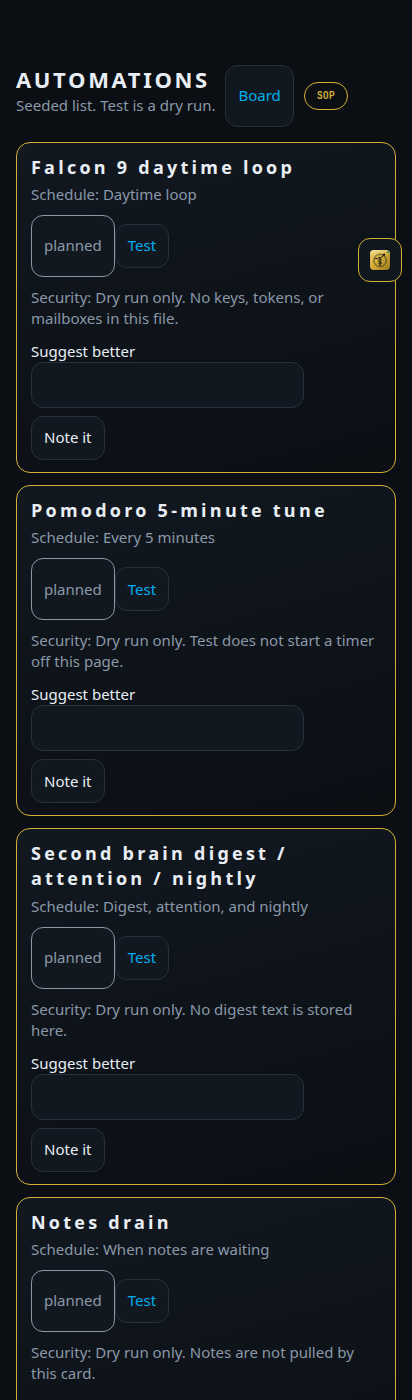
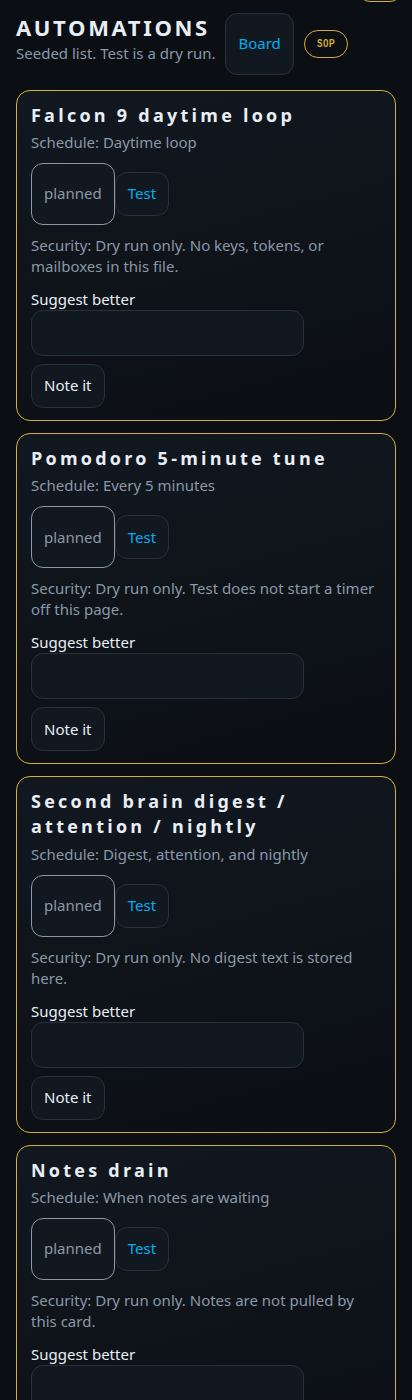
Use a public-domain Falcon 9 photo and a blue Ara mark.
The lane icon is the CC0 Iridium-1 launch, Ara's stroke is Realm blue, and Frankie and Henry has empty photo slots.

diff --git a/nirvana/index.html b/nirvana/index.html
@@ -33,6 +33,7 @@ button{font:inherit;color:inherit}
 .lane .go{display:flex;flex-direction:column;align-items:flex-start;gap:4px;width:100%;min-height:96px;box-sizing:border-box;padding:12px 28px 36px 12px;border:0;background:transparent;color:inherit;text-decoration:none;text-align:left;cursor:pointer;font:inherit}
 .lane.head .go{flex-direction:row;align-items:center;gap:10px;min-height:72px;padding-right:72px}
 .lane img{width:36px;height:36px;display:block;flex:none}
+img.photo{object-fit:cover;border-radius:8px;border:1px solid #26313d}
 .lane .nm{font-weight:700;font-size:14px;overflow-wrap:anywhere}
 .lane .role{color:#8a98a8;font-size:11.5px;line-height:1.3;overflow-wrap:anywhere}
 .lane .dot{position:absolute;top:10px;right:10px;width:8px;height:8px;border-radius:50%;background:#60ff15}
@@ -65,6 +66,10 @@ body.julie-on .tf{display:none}
 .sheet td img{width:22px;height:22px;vertical-align:middle;margin-right:6px}
 .block{background:linear-gradient(165deg,#121820,#0b0f14);border:1px solid #d4af37;border-radius:14px;padding:12px 14px;margin:0 0 10px}
 .block h2{margin:0 0 4px;font-size:16px}
+.dogs{display:flex;gap:8px;margin-top:8px}
+.dogslot{flex:1;min-height:92px;box-sizing:border-box;border:1px dashed #d4af37;border-radius:12px;display:flex;flex-direction:column;align-items:center;justify-content:center;gap:2px;color:#e8eef4;background:#0b0f14}
+.dogslot span{font-weight:700}
+.dogslot small{color:#8a98a8;font-size:11px}
 .draft{margin-top:6px;font:700 12px ui-monospace,Menlo,monospace;color:#d4af37}
 .goldh{background:linear-gradient(160deg,#f3d77a,#d4af37 48%,#9c7a1c);color:#0b0f14;border-radius:14px;padding:12px}
 .goldh h1,.goldh p{color:#0b0f14}
@@ -168,7 +173,9 @@ body.julie-on .tf{display:none}
 <tr><td><img src="../pwa/lanes/marvin.svg" width="22" height="22" alt="Marvin Musk" title="Marvin Musk" aria-label="Marvin Musk">Marvin Musk</td><td>Marvin Musk lane.</td><td>draft</td></tr>
 <tr><td></td><td>Infra — task under Marvin/Bastion.</td><td>draft</td></tr>
 <tr><td><img src="../pwa/lanes/terafab.svg" width="22" height="22" alt="">Terafab</td><td>Money: trades, F&amp;H store, Qantas, pay-it-forward.</td><td>draft</td></tr>
-<tr><td><img src="../pwa/lanes/falcon9.svg" width="22" height="22" alt="">Falcon 9</td><td>Falcon 9 lane.</td><td>draft</td></tr>
+<!-- Falcon 9 photo: https://commons.wikimedia.org/wiki/File:Iridium-1_Launch_(32312419215).jpg
+     Licence: CC0 1.0 Universal, public-domain dedication, Wikimedia Commons. -->
+<tr><td><img class="photo" src="../pwa/lanes/falcon9.jpg" width="22" height="22" alt="">Falcon 9</td><td>Falcon 9 lane.</td><td>draft</td></tr>
 <tr><td><img src="../pwa/lanes/neural-mesh.svg" width="22" height="22" alt="">Neuralink</td><td>After Dark gate.</td><td>draft</td></tr>
 </tbody>
 </table>
@@ -204,7 +211,7 @@ body.julie-on .tf{display:none}
 <div class="bar goldh"><img src="../pwa/lanes/terafab.svg" width="48" height="48" alt=""><div><h1>TERAFAB</h1><p>2026.10.20-LANES · SOP draft</p></div></div>
 <p><a class="back" href="#board">Board</a> <a class="sopc inline" href="#sop?lane=terafab-page">SOP</a></p>
 <section class="block"><h2>Trades</h2><p>The work this lane is tracking.</p><div class="draft">Status: draft</div></section>
-<section class="block"><h2>Frankie and Henry</h2><p>Store section, held as a draft.</p><div class="draft">Status: draft</div></section>
+<section class="block"><h2>Frankie and Henry</h2><p>Store section, held as a draft.</p><div class="dogs"><div class="dogslot"><span>Frankie</span><small>Cavoodle</small><small>Photo coming</small></div><div class="dogslot"><span>Henry</span><small>Photo coming</small></div></div><div class="draft">Status: draft</div></section>
 <section class="block"><h2>Qantas</h2><p>Travel lane, held as a draft.</p><div class="draft">Status: draft</div></section>
 <section class="block"><h2>Pay-it-forward</h2><p>The give-forward lane.</p><div class="draft">Status: draft</div></section>
 </div>
@@ -260,7 +267,7 @@ var s=localStorage.getItem(NVK);if(s)open(s,true);
     {id:"ara",name:"Ara 2.1",cls:"ara",icon:"../pwa/lanes/ara.svg",role:"Second brain for the four apps.",bot:"0aca7e2c-756b-4a08-a1c7-d0751a5703bb"},
     {id:"marvin",name:"Marvin Musk",icon:"../pwa/lanes/marvin.svg",role:"Marvin Musk lane."},
     {id:"terafab",name:"Terafab",cls:"tera",icon:"../pwa/lanes/terafab.svg",role:"Money: trades, F&H store, Qantas, pay-it-forward."},
-    {id:"falcon",sop:"falcon9",name:"Falcon 9",icon:"../pwa/lanes/falcon9.svg",role:"Falcon 9 lane."},
+    {id:"falcon",sop:"falcon9",name:"Falcon 9",icon:"../pwa/lanes/falcon9.jpg",role:"Falcon 9 lane."},
     {id:"neuralink",name:"Neuralink",icon:"../pwa/lanes/neural-mesh.svg",role:"After Dark gate.",href:"#after-dark"}
   ];
   var grid=document.getElementById("laneGrid");
@@ -270,7 +277,8 @@ var s=localStorage.getItem(NVK);if(s)open(s,true);
     if(lane.bot){araId=lane.bot;href="https://cursor.com/grok-bot/link/v1/agent?id="+lane.bot}
     else if(lane.href)href=lane.href;
     var mark=lane.name==="Marvin Musk";
-    var img='<img src="'+lane.icon+'" width="36" height="36" alt="'+(mark?"Marvin Musk":"")+'"'+(mark?' title="Marvin Musk" aria-label="Marvin Musk"':'')+'><span class="nm">'+lane.name+'</span><i class="dot" aria-hidden="true"></i><span class="role">'+lane.role+'</span>';
+    var photo=lane.icon.indexOf("falcon9.jpg")>=0?' class="photo"':'';
+    var img='<img src="'+lane.icon+'" width="36" height="36"'+photo+' alt="'+(mark?"Marvin Musk":"")+'"'+(mark?' title="Marvin Musk" aria-label="Marvin Musk"':'')+'><span class="nm">'+lane.name+'</span><i class="dot" aria-hidden="true"></i><span class="role">'+lane.role+'</span>';
     var named=mark?' aria-label="Marvin Musk" title="Marvin Musk"':'';
     var go=href?'<a class="go"'+(lane.bot?' id="araLane" rel="noopener"':'')+named+' href="'+href+'">'+img+'</a>':'<button type="button" class="go"'+named+'>'+img+'</button>';
     return '<div class="lane'+(lane.cls?' '+lane.cls:'')+'">'+go+'<a class="sopc" href="#sop?lane='+encodeURIComponent(lane.sop||lane.id)+'">SOP</a></div>';
@@ -323,8 +331,8 @@ var s=localStorage.getItem(NVK);if(s)open(s,true);
     rows(document.getElementById("sopSaves"),hit?hit.saves:[]);
     rows(document.getElementById("sopRules"),hit?(Array.isArray(hit.rules)?hit.rules:[hit.rules].filter(Boolean)):[]);
     var img=document.getElementById("sopIcon");
-    if(hit&&hit.icon){img.hidden=false;img.src=hit.icon;img.alt=hit.name||"";if(hit.name==="Marvin Musk"){img.alt="Marvin Musk";img.title="Marvin Musk";img.setAttribute("aria-label","Marvin Musk")}}
-    else img.hidden=true;
+    if(hit&&hit.icon){img.hidden=false;img.src=hit.icon;img.alt=hit.name||"";img.classList.toggle("photo",hit.icon.indexOf("falcon9.jpg")>=0);if(hit.name==="Marvin Musk"){img.alt="Marvin Musk";img.title="Marvin Musk";img.setAttribute("aria-label","Marvin Musk")}}
+    else{img.hidden=true;img.classList.remove("photo")}
   }
   function renderAuto(){
     var host=document.getElementById("autoList");
